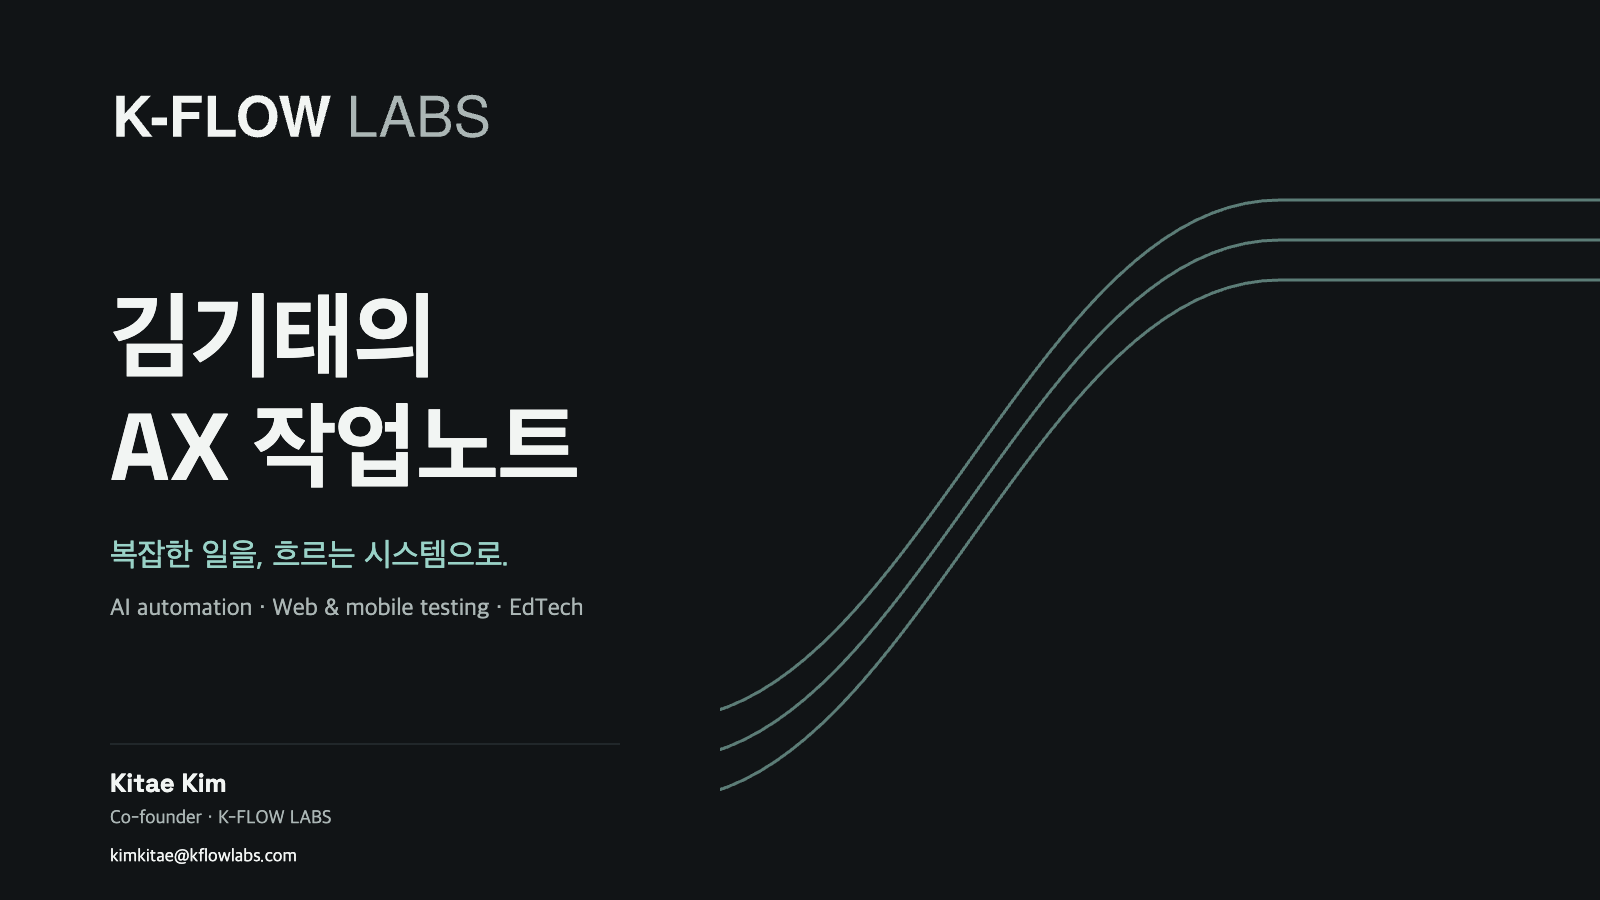
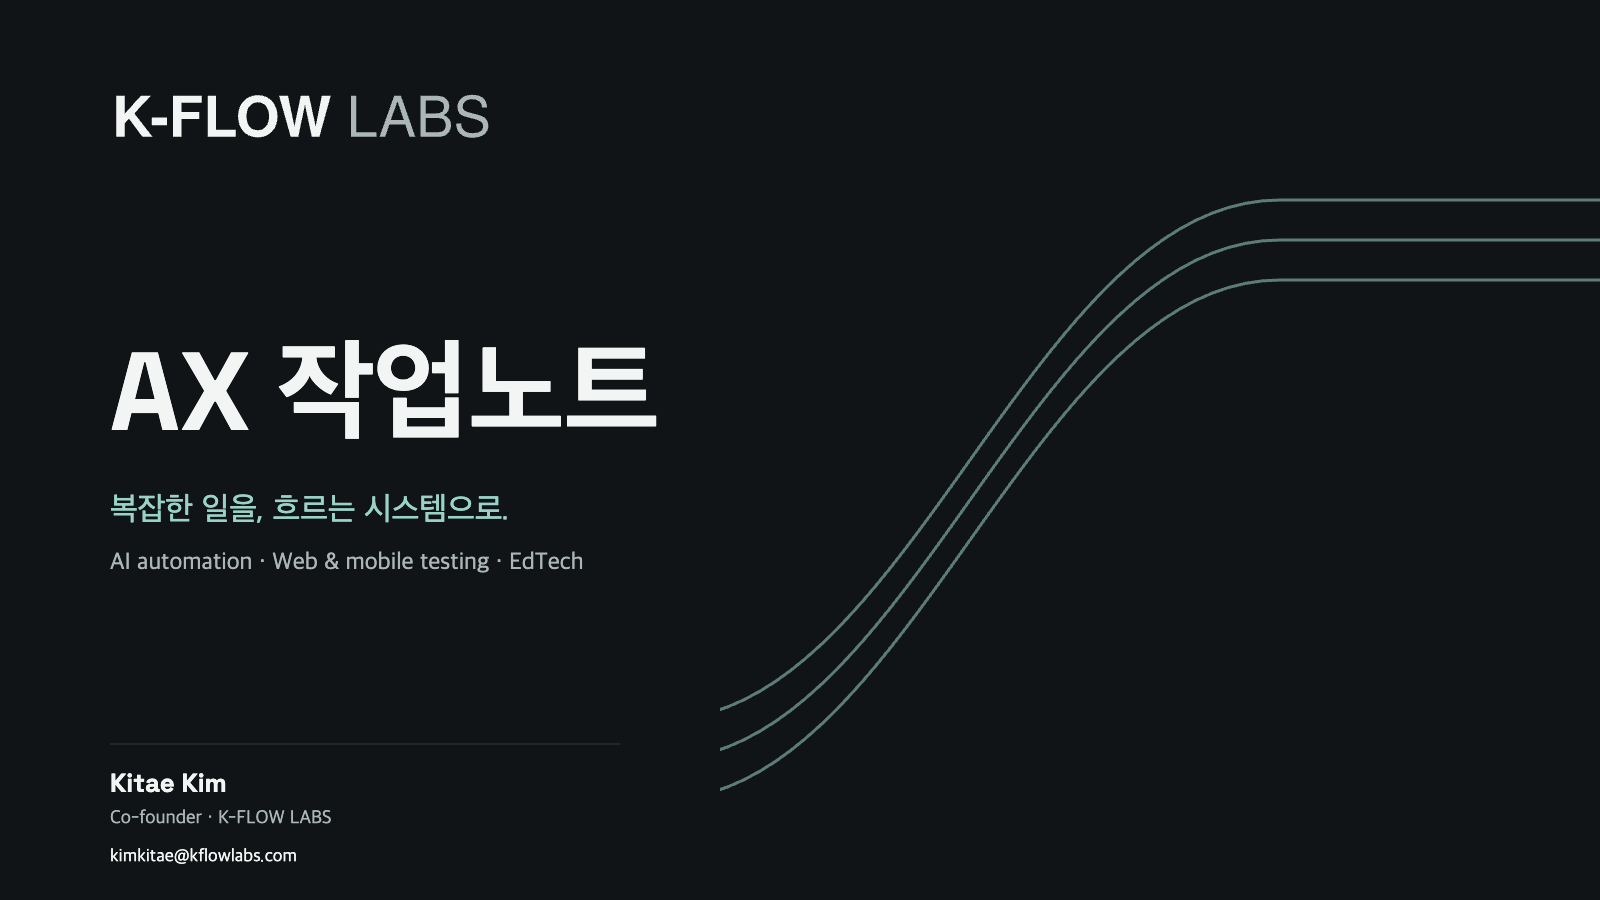
블로그 정체성을 KFlowLabs 회사 브랜드로 통일

Changed region(s): [[0.0625, 0.3111, 0.4062, 0.6844]]

diff --git a/assets/brand/renders/blog-social.html b/assets/brand/renders/blog-social.html
@@ -8,7 +8,7 @@
 </head>
 <body data-kf-render="blog-social">
 <svg xmlns="http://www.w3.org/2000/svg" width="1600" height="900" viewBox="0 0 1600 900" role="img" aria-labelledby="title">
-  <title id="title">김기태의 AX 작업노트 · KFlowLabs</title>
+  <title id="title">KFlowLabs AX 작업노트</title>
   <defs><style>
 @font-face{font-family:KFLDisplay;src:url('../fonts/space-grotesk-bold.woff2')}
 text{font-family:'Apple SD Gothic Neo','Noto Sans KR',Arial,sans-serif}
@@ -19,10 +19,9 @@ text{font-family:'Apple SD Gothic Neo','Noto Sans KR',Arial,sans-serif}
 <defs><clipPath id="flow-720-0-880-900"><rect x="720" y="0" width="880" height="900"/></clipPath></defs>
 <g clip-path="url(#flow-720-0-880-900)" fill="none" stroke="#A9D7CD" stroke-width="3" opacity="0.55" transform=""><path d="M0 720H660C910 720 1030 200 1280 200H1600"/><path d="M0 760H660C910 760 1030 240 1280 240H1600"/><path d="M0 800H660C910 800 1030 280 1280 280H1600"/></g>
   <g transform="translate(110 86) scale(0.54)"><path fill="#F4F6F5" d="M78.57 94 45.08 50.84 75.34 18.18H56.94L27.3 51.46V18.18H11.7V94H27.3V68.62L35.1 60.51L59.95 94ZM105.4 72.47V58.43H77.11V72.47ZM169.98 31.18V18.18H116.74V94H132.34V61.34H165.51V48.34H132.34V31.18ZM232.8 94V81H196.5V18.18H180.9V94ZM310.18 56.56C310.18 33.68 295.72 16.94 273.57 16.94C251.31 16.94 237.17 34.3 237.17 56.04C237.17 78.71 251.42 95.25 273.67 95.25C295.72 95.25 310.18 78.71 310.18 56.56ZM294.58 56.46C294.58 71.95 286.15 81.94 273.67 81.94C261.09 81.94 252.77 71.95 252.77 56.04C252.77 40.75 261.09 30.25 273.67 30.25C286.46 30.25 294.58 40.65 294.58 56.46ZM408.77 18.18H392.23L380.9 75.07L368.62 18.18H353.23L341.48 74.97L329.73 18.18H313.19L334.62 94H348.66L361.03 34.82L373.72 94H387.76Z"/><path fill="#B5BEBD" d="M493.45 94V85.47H456.01V18.18H446.34V94ZM565.31 94 538.69 18.18H526.21L499.17 94H509.46L517.47 71.22H546.7L554.5 94ZM543.99 63.11H519.86L532.34 28.58ZM631.56 72.37C631.56 63.22 627.4 57.7 617.73 53.96C624.59 50.74 628.23 45.12 628.23 37.42C628.23 26.4 620.12 18.18 605.77 18.18H574.98V94H609.2C622.82 94 631.56 84.85 631.56 72.37ZM618.56 38.78C618.56 46.47 614.09 50.84 603.38 50.84H584.66V26.71H603.38C614.09 26.71 618.56 31.08 618.56 38.78ZM621.89 72.47C621.89 79.75 617.42 85.47 608.26 85.47H584.66V59.37H608.26C617.42 59.37 621.89 65.09 621.89 72.47ZM700.72 73.2C700.72 63.84 694.9 56.98 684.6 54.17L665.57 49.07C656.42 46.68 653.09 43.66 653.09 37.84C653.09 30.14 659.85 24.42 670.04 24.42C682.1 24.42 688.97 29.94 688.97 39.82H698.12C698.12 24.94 687.82 16.31 670.35 16.31C653.71 16.31 643.42 25.46 643.42 39.19C643.42 48.45 648.3 54.27 658.29 56.87L677.11 61.86C686.68 64.36 691.05 68.21 691.05 74.14C691.05 82.46 684.81 87.34 671.7 87.34C657.35 87.34 650.28 80.17 650.28 69.35H641.13C641.13 87.24 653.19 95.87 671.08 95.87C690.32 95.87 700.72 86.72 700.72 73.2Z"/></g>
-  <text x="110" y="370" font-size="94" fill="#F4F6F5" class="display">김기태의</text>
-  <text x="110" y="480" font-size="94" fill="#F4F6F5" class="display">AX 작업노트</text>
-  <text x="110" y="566" font-size="32" fill="#A9D7CD">복잡한 일을, 흐르는 시스템으로.</text>
-  <text x="110" y="616" font-size="24" fill="#B5BEBD">AI automation · Web &amp; mobile testing · EdTech</text>
+  <text x="110" y="430" font-size="110" fill="#F4F6F5" class="display">AX 작업노트</text>
+  <text x="110" y="520" font-size="32" fill="#A9D7CD">복잡한 일을, 흐르는 시스템으로.</text>
+  <text x="110" y="570" font-size="24" fill="#B5BEBD">AI automation · Web &amp; mobile testing · EdTech</text>
   <path d="M110 744H620" stroke="#394347"/>
   <text x="110" y="792" font-size="26" fill="#F4F6F5" class="display">Kitae Kim</text>
   <text x="110" y="824" font-size="19" fill="#B5BEBD">Co-founder · K-FLOW LABS</text>

diff --git a/assets/brand/renders/naver-title.html b/assets/brand/renders/naver-title.html
@@ -8,7 +8,7 @@
 </head>
 <body data-kf-render="naver-title">
 <svg xmlns="http://www.w3.org/2000/svg" width="1920" height="480" viewBox="0 0 1920 480" role="img" aria-labelledby="title">
-  <title id="title">김기태의 AX 작업노트</title>
+  <title id="title">KFlowLabs AX 작업노트</title>
   <defs><style>
 @font-face{font-family:KFLDisplay;src:url('../fonts/space-grotesk-bold.woff2')}
 text{font-family:'Apple SD Gothic Neo','Noto Sans KR',Arial,sans-serif}
@@ -19,8 +19,8 @@ text{font-family:'Apple SD Gothic Neo','Noto Sans KR',Arial,sans-serif}
 <defs><clipPath id="flow-1180-0-740-480"><rect x="1180" y="0" width="740" height="480"/></clipPath></defs>
 <g clip-path="url(#flow-1180-0-740-480)" fill="none" stroke="#A9D7CD" stroke-width="3" opacity="0.55" transform="translate(0 -360)"><path d="M0 720H660C910 720 1030 200 1280 200H1600"/><path d="M0 760H660C910 760 1030 240 1280 240H1600"/><path d="M0 800H660C910 800 1030 280 1280 280H1600"/></g>
   <g transform="translate(160 58) scale(0.42)"><path fill="#F4F6F5" d="M78.57 94 45.08 50.84 75.34 18.18H56.94L27.3 51.46V18.18H11.7V94H27.3V68.62L35.1 60.51L59.95 94ZM105.4 72.47V58.43H77.11V72.47ZM169.98 31.18V18.18H116.74V94H132.34V61.34H165.51V48.34H132.34V31.18ZM232.8 94V81H196.5V18.18H180.9V94ZM310.18 56.56C310.18 33.68 295.72 16.94 273.57 16.94C251.31 16.94 237.17 34.3 237.17 56.04C237.17 78.71 251.42 95.25 273.67 95.25C295.72 95.25 310.18 78.71 310.18 56.56ZM294.58 56.46C294.58 71.95 286.15 81.94 273.67 81.94C261.09 81.94 252.77 71.95 252.77 56.04C252.77 40.75 261.09 30.25 273.67 30.25C286.46 30.25 294.58 40.65 294.58 56.46ZM408.77 18.18H392.23L380.9 75.07L368.62 18.18H353.23L341.48 74.97L329.73 18.18H313.19L334.62 94H348.66L361.03 34.82L373.72 94H387.76Z"/><path fill="#B5BEBD" d="M493.45 94V85.47H456.01V18.18H446.34V94ZM565.31 94 538.69 18.18H526.21L499.17 94H509.46L517.47 71.22H546.7L554.5 94ZM543.99 63.11H519.86L532.34 28.58ZM631.56 72.37C631.56 63.22 627.4 57.7 617.73 53.96C624.59 50.74 628.23 45.12 628.23 37.42C628.23 26.4 620.12 18.18 605.77 18.18H574.98V94H609.2C622.82 94 631.56 84.85 631.56 72.37ZM618.56 38.78C618.56 46.47 614.09 50.84 603.38 50.84H584.66V26.71H603.38C614.09 26.71 618.56 31.08 618.56 38.78ZM621.89 72.47C621.89 79.75 617.42 85.47 608.26 85.47H584.66V59.37H608.26C617.42 59.37 621.89 65.09 621.89 72.47ZM700.72 73.2C700.72 63.84 694.9 56.98 684.6 54.17L665.57 49.07C656.42 46.68 653.09 43.66 653.09 37.84C653.09 30.14 659.85 24.42 670.04 24.42C682.1 24.42 688.97 29.94 688.97 39.82H698.12C698.12 24.94 687.82 16.31 670.35 16.31C653.71 16.31 643.42 25.46 643.42 39.19C643.42 48.45 648.3 54.27 658.29 56.87L677.11 61.86C686.68 64.36 691.05 68.21 691.05 74.14C691.05 82.46 684.81 87.34 671.7 87.34C657.35 87.34 650.28 80.17 650.28 69.35H641.13C641.13 87.24 653.19 95.87 671.08 95.87C690.32 95.87 700.72 86.72 700.72 73.2Z"/></g>
-  <text x="160" y="174" font-size="18" letter-spacing="3" fill="#A9D7CD" class="mono">AX 작업노트 / K-FLOW LABS</text>
-  <text x="160" y="274" font-size="84" fill="#F4F6F5" class="display">김기태의 AX 작업노트</text>
+  <text x="160" y="174" font-size="18" letter-spacing="3" fill="#A9D7CD" class="mono">FIELD NOTES / AX · AUTOMATION · AI SYSTEMS</text>
+  <text x="160" y="274" font-size="84" fill="#F4F6F5" class="display">AX 작업노트</text>
   <text x="160" y="336" font-size="26" fill="#A9D7CD">복잡한 일을, 흐르는 시스템으로.</text>
 </svg>
 </body>

diff --git a/assets/brand/renders/naver-mobile-cover.html b/assets/brand/renders/naver-mobile-cover.html
@@ -8,7 +8,7 @@
 </head>
 <body data-kf-render="naver-mobile-cover">
 <svg xmlns="http://www.w3.org/2000/svg" width="1024" height="1024" viewBox="0 0 1024 1024" role="img" aria-labelledby="title">
-  <title id="title">김기태의 AX 작업노트</title>
+  <title id="title">KFlowLabs AX 작업노트</title>
   <defs><style>
 @font-face{font-family:KFLDisplay;src:url('../fonts/space-grotesk-bold.woff2')}
 text{font-family:'Apple SD Gothic Neo','Noto Sans KR',Arial,sans-serif}
@@ -17,7 +17,7 @@ text{font-family:'Apple SD Gothic Neo','Noto Sans KR',Arial,sans-serif}
 </style></defs>
   <rect width="1024" height="1024" fill="#101416"/>
   <g transform="translate(355.9 250) scale(1.4)"><path fill="#F4F6F5" d="M0 0h37v66L90 0h45L64 72l79 91H98L37 95v68H0V0Z"/><path fill="#F4F6F5" d="M153 0h67v38h-79v28h64v36h-64v35l-35-35V56L153 0Z"/></g>
-  <text x="512.0" y="650" text-anchor="middle" font-size="64" fill="#F4F6F5" class="display" data-kf-role="title" data-kf-line="1">김기태의</text>
+  <text x="512.0" y="650" text-anchor="middle" font-size="58" fill="#F4F6F5" class="display" data-kf-role="title" data-kf-line="1">KFlowLabs</text>
   <text x="512.0" y="730" text-anchor="middle" font-size="64" fill="#F4F6F5" class="display" data-kf-role="title" data-kf-line="2">AX 작업노트</text>
 </svg>
 </body>

diff --git a/assets/brand/index.html b/assets/brand/index.html
@@ -19,11 +19,11 @@
   <p>Open this page after the PNGs are rendered from the paired SVGs. All 9 fixtures are listed below.</p>
   <main>
     <figure>
-      <img src="blog-social.png" alt="김기태의 AX 작업노트 · KFlowLabs" width="1600" height="900">
+      <img src="blog-social.png" alt="KFlowLabs AX 작업노트" width="1600" height="900">
       <figcaption><a href="renders/blog-social.html">blog-social.svg</a> · 1600×900</figcaption>
     </figure>
     <figure>
-      <img src="naver-title.png" alt="김기태의 AX 작업노트" width="1920" height="480">
+      <img src="naver-title.png" alt="KFlowLabs AX 작업노트" width="1920" height="480">
       <figcaption><a href="renders/naver-title.html">naver-title.svg</a> · 1920×480</figcaption>
     </figure>
     <figure>
@@ -51,7 +51,7 @@
       <figcaption><a href="renders/medium-wordmark.html">medium-wordmark.svg</a> · 1280×320</figcaption>
     </figure>
     <figure>
-      <img src="naver-mobile-cover.png" alt="김기태의 AX 작업노트" width="1024" height="1024">
+      <img src="naver-mobile-cover.png" alt="KFlowLabs AX 작업노트" width="1024" height="1024">
       <figcaption><a href="renders/naver-mobile-cover.html">naver-mobile-cover.svg</a> · 1024×1024</figcaption>
     </figure>
   </main>

diff --git a/_includes/kflowlabs-brand-header.html b/_includes/kflowlabs-brand-header.html
@@ -19,7 +19,7 @@
       >
     </span>
     <p class="kf-brand-header__eyebrow">FIELD NOTES</p>
-    <h2 class="kf-brand-header__title" id="kf-brand-title">김기태의 AX 작업노트</h2>
+    <h2 class="kf-brand-header__title" id="kf-brand-title">AX 작업노트</h2>
     <p class="kf-brand-header__line">복잡한 일을, 흐르는 시스템으로.</p>
     <p class="kf-brand-header__services">AI automation · Web &amp; mobile testing · EdTech</p>
     <div class="kf-brand-header__links">

diff --git a/tools/build_brand_assets.py b/tools/build_brand_assets.py
@@ -49,15 +49,15 @@ SIZES: dict[str, tuple[int, int]] = {
 }
 
 TITLES = {
-    "blog-social": "김기태의 AX 작업노트 · KFlowLabs",
-    "naver-title": "김기태의 AX 작업노트",
+    "blog-social": "KFlowLabs AX 작업노트",
+    "naver-title": "KFlowLabs AX 작업노트",
     "medium-mobile-automation": "Mobile automation",
     "field-series-erp": "자동 배정에 담기지 않은 판단",
     "field-series-ai-coaching": "녹음부터 전달까지, 완료를 나누기",
     "field-series-baguio-adaptation": "같은 기능, 다른 캠퍼스의 연결",
     "field-series-a1-reports": "짧은 발화에서 유용한 리포트로",
     "medium-wordmark": "K-FLOW LABS",
-    "naver-mobile-cover": "김기태의 AX 작업노트",
+    "naver-mobile-cover": "KFlowLabs AX 작업노트",
 }
 
 STYLE = """
@@ -139,10 +139,9 @@ def blog_social(w: int, h: int, wordmark_paths: list[str], flow_paths: list[str]
     body = f'''  <rect width="{w}" height="{h}" fill="#101416"/>
 {flow(flow_paths, (720, 0, 880, 900), "#A9D7CD", "0.55")}
   {wordmark(wordmark_paths, 110, 86, 0.54, True)}
-  <text x="110" y="370" font-size="94" fill="#F4F6F5" class="display">김기태의</text>
-  <text x="110" y="480" font-size="94" fill="#F4F6F5" class="display">AX 작업노트</text>
-  <text x="110" y="566" font-size="32" fill="#A9D7CD">복잡한 일을, 흐르는 시스템으로.</text>
-  <text x="110" y="616" font-size="24" fill="#B5BEBD">AI automation · Web &amp; mobile testing · EdTech</text>
+  <text x="110" y="430" font-size="110" fill="#F4F6F5" class="display">AX 작업노트</text>
+  <text x="110" y="520" font-size="32" fill="#A9D7CD">복잡한 일을, 흐르는 시스템으로.</text>
+  <text x="110" y="570" font-size="24" fill="#B5BEBD">AI automation · Web &amp; mobile testing · EdTech</text>
   <path d="M110 744H620" stroke="#394347"/>
   <text x="110" y="792" font-size="26" fill="#F4F6F5" class="display">Kitae Kim</text>
   <text x="110" y="824" font-size="19" fill="#B5BEBD">Co-founder · K-FLOW LABS</text>
@@ -154,8 +153,8 @@ def naver_title(w: int, h: int, wordmark_paths: list[str], flow_paths: list[str]
     body = f'''  <rect width="{w}" height="{h}" fill="#101416"/>
 {flow(flow_paths, (1180, 0, 740, 480), "#A9D7CD", "0.55", transform="translate(0 -360)")}
   {wordmark(wordmark_paths, 160, 58, 0.42, True)}
-  <text x="160" y="174" font-size="18" letter-spacing="3" fill="#A9D7CD" class="mono">AX 작업노트 / K-FLOW LABS</text>
-  <text x="160" y="274" font-size="84" fill="#F4F6F5" class="display">김기태의 AX 작업노트</text>
+  <text x="160" y="174" font-size="18" letter-spacing="3" fill="#A9D7CD" class="mono">FIELD NOTES / AX · AUTOMATION · AI SYSTEMS</text>
+  <text x="160" y="274" font-size="84" fill="#F4F6F5" class="display">AX 작업노트</text>
   <text x="160" y="336" font-size="26" fill="#A9D7CD">복잡한 일을, 흐르는 시스템으로.</text>'''
     return svg_doc(w, h, TITLES["naver-title"], body)
 
@@ -189,7 +188,7 @@ def naver_mobile_cover(w: int, h: int, monogram_paths: list[str]) -> str:
     shapes = "".join(f'<path fill="#F4F6F5" d="{d}"/>' for d in monogram_paths)
     body = f'''  <rect width="{w}" height="{h}" fill="#101416"/>
   <g transform="translate({x} {y}) scale({scale})">{shapes}</g>
-  <text x="{w / 2}" y="650" text-anchor="middle" font-size="64" fill="#F4F6F5" class="display" data-kf-role="title" data-kf-line="1">김기태의</text>
+  <text x="{w / 2}" y="650" text-anchor="middle" font-size="58" fill="#F4F6F5" class="display" data-kf-role="title" data-kf-line="1">KFlowLabs</text>
   <text x="{w / 2}" y="730" text-anchor="middle" font-size="64" fill="#F4F6F5" class="display" data-kf-role="title" data-kf-line="2">AX 작업노트</text>'''
     return svg_doc(w, h, TITLES["naver-mobile-cover"], body)
 

diff --git a/docs/blog-brand-guide.md b/docs/blog-brand-guide.md
@@ -3,6 +3,15 @@
 Short art contract for the blog and its cross-channel covers. Prose, routes and
 publication schedules are out of scope.
 
+## Identity
+
+Brand first: the site and artwork lead with KFlowLabs (original K-FLOW LABS
+lockup), and the product is **AX 작업노트** — field notes on AX, workflow
+automation and AI system practice. The personal byline stays small and
+secondary: author 김기태 / Kitae Kim.
+
+Contact: `kimkitae@kflowlabs.com`. Public wordmark: `K-FLOW LABS`.
+
 ## Provenance
 
 Source: K-FLOW LABS / Flow System V2, marked FINAL / USER APPROVED on 2026-11-06.
@@ -58,16 +67,15 @@ prompt/status colors in the theme.
 | --- | --- | --- |
 | GitHub Pages home | native theme + `_includes/kflowlabs-brand-header.html` | Avatar `kf-avatar-dark.svg`; social preview `blog-social.png` |
 | Favicon and PWA | `kf-avatar-dark.svg`, `kf-avatar-dark.png` | 1024×1024 identity; SVG favicon with PNG fallback |
-| GitHub social preview | `assets/brand/blog-social.png` | 1600×900, Korean title two lines, wordmark, low-key contact |
+| GitHub social preview | `assets/brand/blog-social.png` | 1600×900, AX 작업노트 headline, wordmark, low-key contact |
 | Naver blog title | `assets/brand/naver-title.png` (master 1920×480) + `assets/brand/naver-title-773.png` (saved 773×194 derivative) | Top-header layout; the 773×194 derivative is the uploaded width |
 | Naver blog avatar | `assets/brand/kf-avatar-dark.png` | Separate from the ID shared photo; ID photo stays unchanged |
-| Naver mobile cover | `assets/brand/naver-mobile-cover.png` | 1024×1024, charcoal, KF monogram and two-line Korean title |
+| Naver mobile cover | `assets/brand/naver-mobile-cover.png` | 1024×1024, charcoal, KF monogram, KFlowLabs and AX 작업노트 |
 | Medium | `assets/brand/medium-mobile-automation.png` | 1600×900 cover; existing explanatory image and prose stay |
 | Medium wordmark | `assets/brand/medium-wordmark.png` | 1280×320 transparent field, reversed white original wordmark |
 | Prepared field series | `field-series-erp.png`, `field-series-ai-coaching.png`, `field-series-baguio-adaptation.png`, `field-series-a1-reports.png` | 1600×900 covers; prepared assets, not publication authorization |
 
-Contact: `kimkitae@kflowlabs.com`. Public wordmark: `K-FLOW LABS`. Author
-identity: 김기태의 AX 작업노트 · KFlowLabs / Kitae Kim | KFlowLabs.
+Byline author: 김기태 / Kitae Kim | KFlowLabs. Contact: `kimkitae@kflowlabs.com`.
 
 ## Channel language policy
 
@@ -102,8 +110,11 @@ this repository task:
   The Naver blog avatar is a separate upload and does not replace the ID photo.
 - Medium and Naver avatar upload accept the supplied 1024×1024 PNG.
 
-Native profile design changes are still owned by the running root task; this
-guide records the policy and saved upload dimensions, not applied profiles.
+Native profile changes are not made by this guide. The root task owns actual
+native verification: it regenerates assets from the approved kit, rasterizes the
+PNGs and the 773×194 derivative, and QA-confirms the rendered result in the
+native channel controls. Code and this guide describe policy and dimensions;
+they cannot assert that a profile has been applied.
 
 ## Regenerate and check
 

diff --git a/_tabs/about.md b/_tabs/about.md
@@ -5,7 +5,7 @@ icon: fas fa-info-circle
 order: 4
 ---
 
-**김기태의 AX 작업노트 · KFlowLabs**는 김기태가 직접 겪은 테스트 자동화와 AX(AI 전환) 작업을 기록하는 기술 블로그입니다. 글에는 작성자의 경험과 판단을 담고, AX·자동화 협업 문의는 KFlowLabs로 연결합니다. 어떤 문제를 만났고, 무엇을 시도했으며, 어디서 실패했는지를 설명합니다.
+**KFlowLabs AX 작업노트**는 글쓴이 김기태가 직접 겪은 테스트 자동화와 AX(AI 전환) 작업을 기록하는 기술 블로그입니다. 글에는 작성자의 경험과 판단을 담고, AX·자동화 협업 문의는 KFlowLabs로 연결합니다. 어떤 문제를 만났고, 무엇을 시도했으며, 어디서 실패했는지를 설명합니다.
 
 KFlowLabs는 김기태가 운영하는 AX·업무 자동화 협업 창구입니다. 블로그의 경력과 프로젝트는 확인 가능한 공개 이력을 기준으로 다룹니다.
 

diff --git a/_tabs/contact.md b/_tabs/contact.md
@@ -4,7 +4,7 @@ icon: fas fa-envelope
 order: 5
 ---
 
-김기태의 AX 작업노트를 읽고 자동화나 AX 과제에 관해 이야기하고 싶다면 이메일로 연락해 주세요. KFlowLabs의 협업 문의도 같은 주소로 받습니다.
+KFlowLabs AX 작업노트를 읽고 자동화나 AX 과제에 관해 이야기하고 싶다면 이메일로 연락해 주세요. KFlowLabs의 협업 문의도 같은 주소로 받습니다.
 
 For automation or AX enquiries, email [kimkitae@kflowlabs.com](mailto:kimkitae@kflowlabs.com?subject=KFlowLabs%20inquiry). Describe the workflow you want to improve and leave out confidential information.
 
